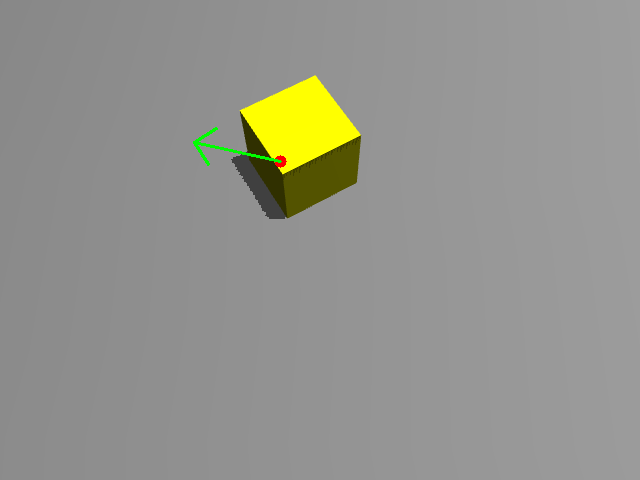
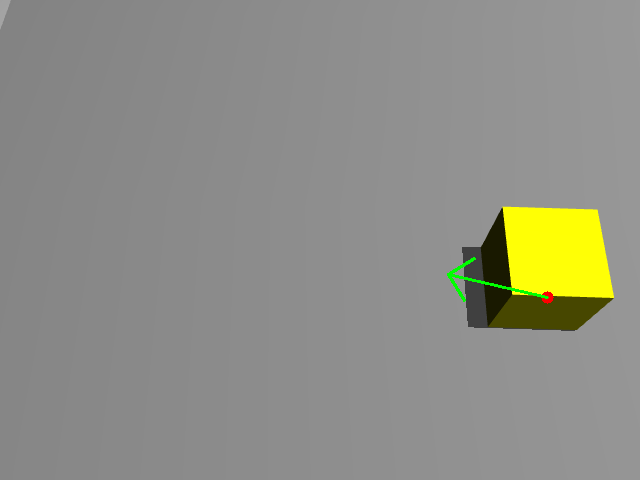
改善了导航阶段的定位精度问题

Changed region(s): [[0.6875, 0.4062, 0.9688, 0.6875], [0.2812, 0.1562, 0.5625, 0.4688], [0.0, 0.0, 0.0312, 0.0625]]

diff --git a/custom_envs/scripts/navigation/navigate_mujoco_moveit.py b/custom_envs/scripts/navigation/navigate_mujoco_moveit.py
@@ -55,8 +55,7 @@ sys.path.insert(0, os.path.join(_HERE, "..", "..", "utils"))
 class PipelineState(enum.Enum):
     NAV          = "NAV"
     ALIGN_YAW_1  = "ALIGN_YAW_1"
-    PAN_VX       = "PAN_VX"
-    PAN_VY       = "PAN_VY"
+    PAN_XY       = "PAN_XY"
     ARM_INIT     = "ARM_INIT"
     SCAN         = "SCAN"
     GRASP_PLAN   = "GRASP_PLAN"
@@ -634,8 +633,7 @@ def main():
     # 每帧固定不变的状态集合只构造一次，避免主循环内重复创建。
     _ARM_IDLE_STATES = {
         PipelineState.ALIGN_YAW_1,
-        PipelineState.PAN_VX,
-        PipelineState.PAN_VY,
+        PipelineState.PAN_XY,
     }
     _LOCOMOTION_DISABLED_STATES = {
         PipelineState.ARM_INIT, PipelineState.SCAN,
@@ -905,6 +903,119 @@ def main():
                      world_vx_target=world_vx_target,
                      world_vy_target=world_vy_target))
 
+    def _pan_world_xy_control(
+        pan_state, err_x, err_y, target_yaw,
+        pos_tol=0.05, resume_tol=0.10,
+        kp_x=1.0, kp_y=0.8,
+        vmax_x=0.25, vmax_y=0.35,
+        yaw_now=0.0, base_lin_vel=None,
+    ):
+        """世界系 XY 同时闭环精定位。
+
+        完成条件不是欧式距离，而是两个轴分别满足：
+            |err_x| <= pos_tol 且 |err_y| <= pos_tol
+        并且水平速度、yaw 都已经稳定。
+
+        某一轴已经进入容差时，该轴目标速度置零；若随后被另一轴运动带出容差，
+        下一控制周期会自动重新纠正该轴。
+        """
+        nonlocal _pan_ctrl_state, _pan_cmd_vx, _pan_cmd_vy, _pan_cmd_wz
+        nonlocal _pan_settling, _pan_settle_count
+
+        if _pan_ctrl_state != pan_state:
+            _pan_ctrl_state = pan_state
+            _pan_cmd_vx = 0.0
+            _pan_cmd_vy = 0.0
+            _pan_cmd_wz = 0.0
+            _pan_settling = False
+            _pan_settle_count = 0
+
+        ex = float(err_x)
+        ey = float(err_y)
+        ax = abs(ex)
+        ay = abs(ey)
+
+        in_x = ax <= float(pos_tol)
+        in_y = ay <= float(pos_tol)
+        both_in = in_x and in_y
+
+        # 只有两个轴都进入 ±5 cm 才进入停车/稳定阶段。
+        if _pan_settling:
+            if ax > float(resume_tol) or ay > float(resume_tol):
+                _pan_settling = False
+                _pan_settle_count = 0
+        elif both_in:
+            _pan_settling = True
+            _pan_settle_count = 0
+
+        if _pan_settling:
+            world_vx_target = 0.0
+            world_vy_target = 0.0
+        else:
+            if in_x:
+                world_vx_target = 0.0
+            else:
+                mag_x = min(
+                    float(vmax_x),
+                    max(_PAN_MIN_MOVE_SPEED, float(kp_x) * ax),
+                )
+                world_vx_target = math.copysign(mag_x, ex)
+
+            if in_y:
+                world_vy_target = 0.0
+            else:
+                mag_y = min(
+                    float(vmax_y),
+                    max(_PAN_MIN_MOVE_SPEED, float(kp_y) * ay),
+                )
+                world_vy_target = math.copysign(mag_y, ey)
+
+        # world -> body: Rz(yaw)^T @ v_world
+        cy = math.cos(float(yaw_now))
+        sy = math.sin(float(yaw_now))
+        vx_target = cy * world_vx_target + sy * world_vy_target
+        vy_target = -sy * world_vx_target + cy * world_vy_target
+
+        _pan_cmd_vx = _slew(_pan_cmd_vx, vx_target, _PAN_DV_PER_STEP)
+        _pan_cmd_vy = _slew(_pan_cmd_vy, vy_target, _PAN_DV_PER_STEP)
+
+        yaw_err = _yaw_err_to(float(target_yaw), float(yaw_now))
+        wz_target = _yaw_target_with_min(
+            yaw_err, _PAN_YAW_KP, _PAN_YAW_MIN,
+            _PAN_YAW_MAX, _PAN_YAW_DEADBAND)
+        _pan_cmd_wz = _slew(_pan_cmd_wz, wz_target, _PAN_DW_PER_STEP)
+
+        if base_lin_vel is None:
+            _vworld = np.zeros(2, dtype=np.float64)
+        else:
+            _vworld = np.asarray(base_lin_vel, dtype=np.float64)[:2]
+        _vxy = float(np.linalg.norm(_vworld))
+
+        if (_pan_settling
+                and ax <= float(pos_tol)
+                and ay <= float(pos_tol)
+                and _vxy <= _PAN_SETTLE_SPEED
+                and abs(yaw_err) <= math.radians(3.0)):
+            _pan_settle_count += 1
+        else:
+            _pan_settle_count = 0
+
+        done = (_pan_settle_count >= _PAN_SETTLE_STEPS)
+
+        return (
+            _pan_cmd_vx, _pan_cmd_vy, _pan_cmd_wz, done,
+            dict(
+                err_x=ex, err_y=ey,
+                abs_err_x=ax, abs_err_y=ay,
+                in_x=in_x, in_y=in_y,
+                vxy=_vxy, yaw_err=yaw_err,
+                settling=_pan_settling,
+                settle_count=_pan_settle_count,
+                world_vx_target=world_vx_target,
+                world_vy_target=world_vy_target,
+            )
+        )
+
     def _arm_step(q6):
         """设置机械臂目标角（6维）。"""
         env.set_arm_target(np.asarray(q6, dtype=np.float64))
@@ -1140,55 +1251,63 @@ def main():
                           f"settle={_ad['settle_count']}/{_ALIGN_SETTLE_STEPS}", flush=True)
                 if _align_done or state_step >= ALIGN_YAW_MAX_STEPS:
                     _why = "settled" if _align_done else "timeout"
-                    print(f"[MJ] ALIGN_YAW_1 done ({_why}) -> PAN_VX", flush=True)
-                    next_state = PipelineState.PAN_VX
+                    print(f"[MJ] ALIGN_YAW_1 done ({_why}) -> PAN_XY", flush=True)
+                    next_state = PipelineState.PAN_XY
                     state_step = 0
 
-            elif current_state == PipelineState.PAN_VX:
-                # 世界 Y 精调：和 PAN_DES_X 一样直接在世界系闭环，实时 yaw 只负责坐标变换。
-                _dy_w = float(args.goal[1]) - float(pos_w[1])
-                cmd_vx, cmd_vy, cmd_wz, _pan_done, _pd = _pan_world_axis_control(
-                    PipelineState.PAN_VX, _dy_w, 'y', math.pi / 2,
-                    pos_tol=0.08, resume_tol=0.16, kp=0.8, vmax=0.35,
-                    yaw_now=yaw, base_lin_vel=rs["lin_vel"])
-                if state_step == 1:
-                    print(f"[SM] PAN_VX start dy_err={_pd['signed_err']:+.3f}m", flush=True)
+            elif current_state == PipelineState.PAN_XY:
+                # 最终二维精定位：
+                #   x_target = goal_x + 0.5m（保持原 PAN_VY 的目标）
+                #   y_target = goal_y        （保持原 PAN_VX 的目标）
+                # 每一步同时看 x/y 两个误差，避免修 x 时把已经调好的 y 再次带偏。
+                _x_target = float(args.goal[0]) + 0.5
+                _y_target = float(args.goal[1])
+                _ex_w = _x_target - float(pos_w[0])
+                _ey_w = _y_target - float(pos_w[1])
+
+                cmd_vx, cmd_vy, cmd_wz, _pan_done, _pd = _pan_world_xy_control(
+                    PipelineState.PAN_XY,
+                    _ex_w, _ey_w,
+                    target_yaw=math.pi / 2,
+                    pos_tol=0.05,       # x/y 分别都要求进入 ±5 cm
+                    resume_tol=0.10,    # 被耦合运动带出 ±10 cm 时明确退出停车状态
+                    kp_x=1.0, kp_y=0.8,
+                    vmax_x=0.25, vmax_y=0.35,
+                    yaw_now=yaw,
+                    base_lin_vel=rs["lin_vel"],
+                )
+
+                if state_step == 0:
+                    print(
+                        f"[SM] PAN_XY start target=({_x_target:.3f},{_y_target:.3f}) "
+                        f"err=({_pd['err_x']:+.3f},{_pd['err_y']:+.3f})m",
+                        flush=True)
+
                 if state_step % 25 == 0:
-                    print(f"[SM] PAN_VX step {state_step}: dy_err={_pd['signed_err']:+.3f}m "
-                          f"cmd=({cmd_vx:+.3f},{cmd_vy:+.3f},{cmd_wz:+.3f}) "
-                          f"vy_world={_pd['axis_vel']:+.3f} vxy={_pd['vxy']:.3f} "
-                          f"yaw_err={math.degrees(_pd['yaw_err']):+.2f}deg "
-                          f"settling={int(_pd['settling'])} "
-                          f"settle={_pd['settle_count']}/{_PAN_SETTLE_STEPS}", flush=True)
+                    print(
+                        f"[SM] PAN_XY step {state_step}: "
+                        f"ex={_pd['err_x']:+.3f}m ey={_pd['err_y']:+.3f}m "
+                        f"in_tol={int(_pd['in_x'])}/{int(_pd['in_y'])} "
+                        f"world_cmd=({_pd['world_vx_target']:+.3f},"
+                        f"{_pd['world_vy_target']:+.3f}) "
+                        f"body_cmd=({cmd_vx:+.3f},{cmd_vy:+.3f},{cmd_wz:+.3f}) "
+                        f"vxy={_pd['vxy']:.3f} "
+                        f"yaw_err={math.degrees(_pd['yaw_err']):+.2f}deg "
+                        f"settling={int(_pd['settling'])} "
+                        f"settle={_pd['settle_count']}/{_PAN_SETTLE_STEPS}",
+                        flush=True)
+
                 state_step += 1
                 if _pan_done or state_step >= PAN_MAX_STEPS:
                     _why = "settled" if _pan_done else "timeout"
-                    print(f"[SM] PAN_VX done ({_why}) -> PAN_VY", flush=True)
-                    next_state = PipelineState.PAN_VY
-                    state_step = 0
-
-            elif current_state == PipelineState.PAN_VY:
-                # 世界 X 精调：目标为 goal_x+0.5m。直接按 world X 闭环，再根据实时 yaw
-                # 转成 body vx/vy，避免依赖“yaw 必须恰好为 +pi/2”的固定符号假设。
-                _dx_w = float(args.goal[0]) + 0.5 - float(pos_w[0])
-                cmd_vx, cmd_vy, cmd_wz, _pan_done, _pd = _pan_world_axis_control(
-                    PipelineState.PAN_VY, _dx_w, 'x', math.pi / 2,
-                    pos_tol=0.10, resume_tol=0.20, kp=1.0, vmax=0.25,
-                    yaw_now=yaw, base_lin_vel=rs["lin_vel"],
-                    settle_use_vxy=True)
-                if state_step == 1:
-                    print(f"[SM] PAN_VY start dx_err={_pd['signed_err']:+.3f}m", flush=True)
-                if state_step % 25 == 0:
-                    print(f"[SM] PAN_VY step {state_step}: dx_err={_pd['signed_err']:+.3f}m "
-                          f"cmd=({cmd_vx:+.3f},{cmd_vy:+.3f},{cmd_wz:+.3f}) "
-                          f"vx_world={_pd['axis_vel']:+.3f} vxy={_pd['vxy']:.3f} "
-                          f"yaw_err={math.degrees(_pd['yaw_err']):+.2f}deg "
-                          f"settling={int(_pd['settling'])} "
-                          f"settle={_pd['settle_count']}/{_PAN_SETTLE_STEPS}", flush=True)
-                state_step += 1
-                if _pan_done or state_step >= PAN_MAX_STEPS:
-                    _why = "settled" if _pan_done else "timeout"
-                    print(f"[SM] PAN_VY done ({_why}) -> ARM_INIT", flush=True)
+                    _ex_final = _x_target - float(pos_w[0])
+                    _ey_final = _y_target - float(pos_w[1])
+                    print(
+                        f"[SM] PAN_XY done ({_why}): "
+                        f"final_pos=({float(pos_w[0]):.3f},{float(pos_w[1]):.3f}) "
+                        f"err=({_ex_final:+.3f},{_ey_final:+.3f})m "
+                        f"-> ARM_INIT",
+                        flush=True)
                     next_state = PipelineState.ARM_INIT
                     state_step = 0
 
